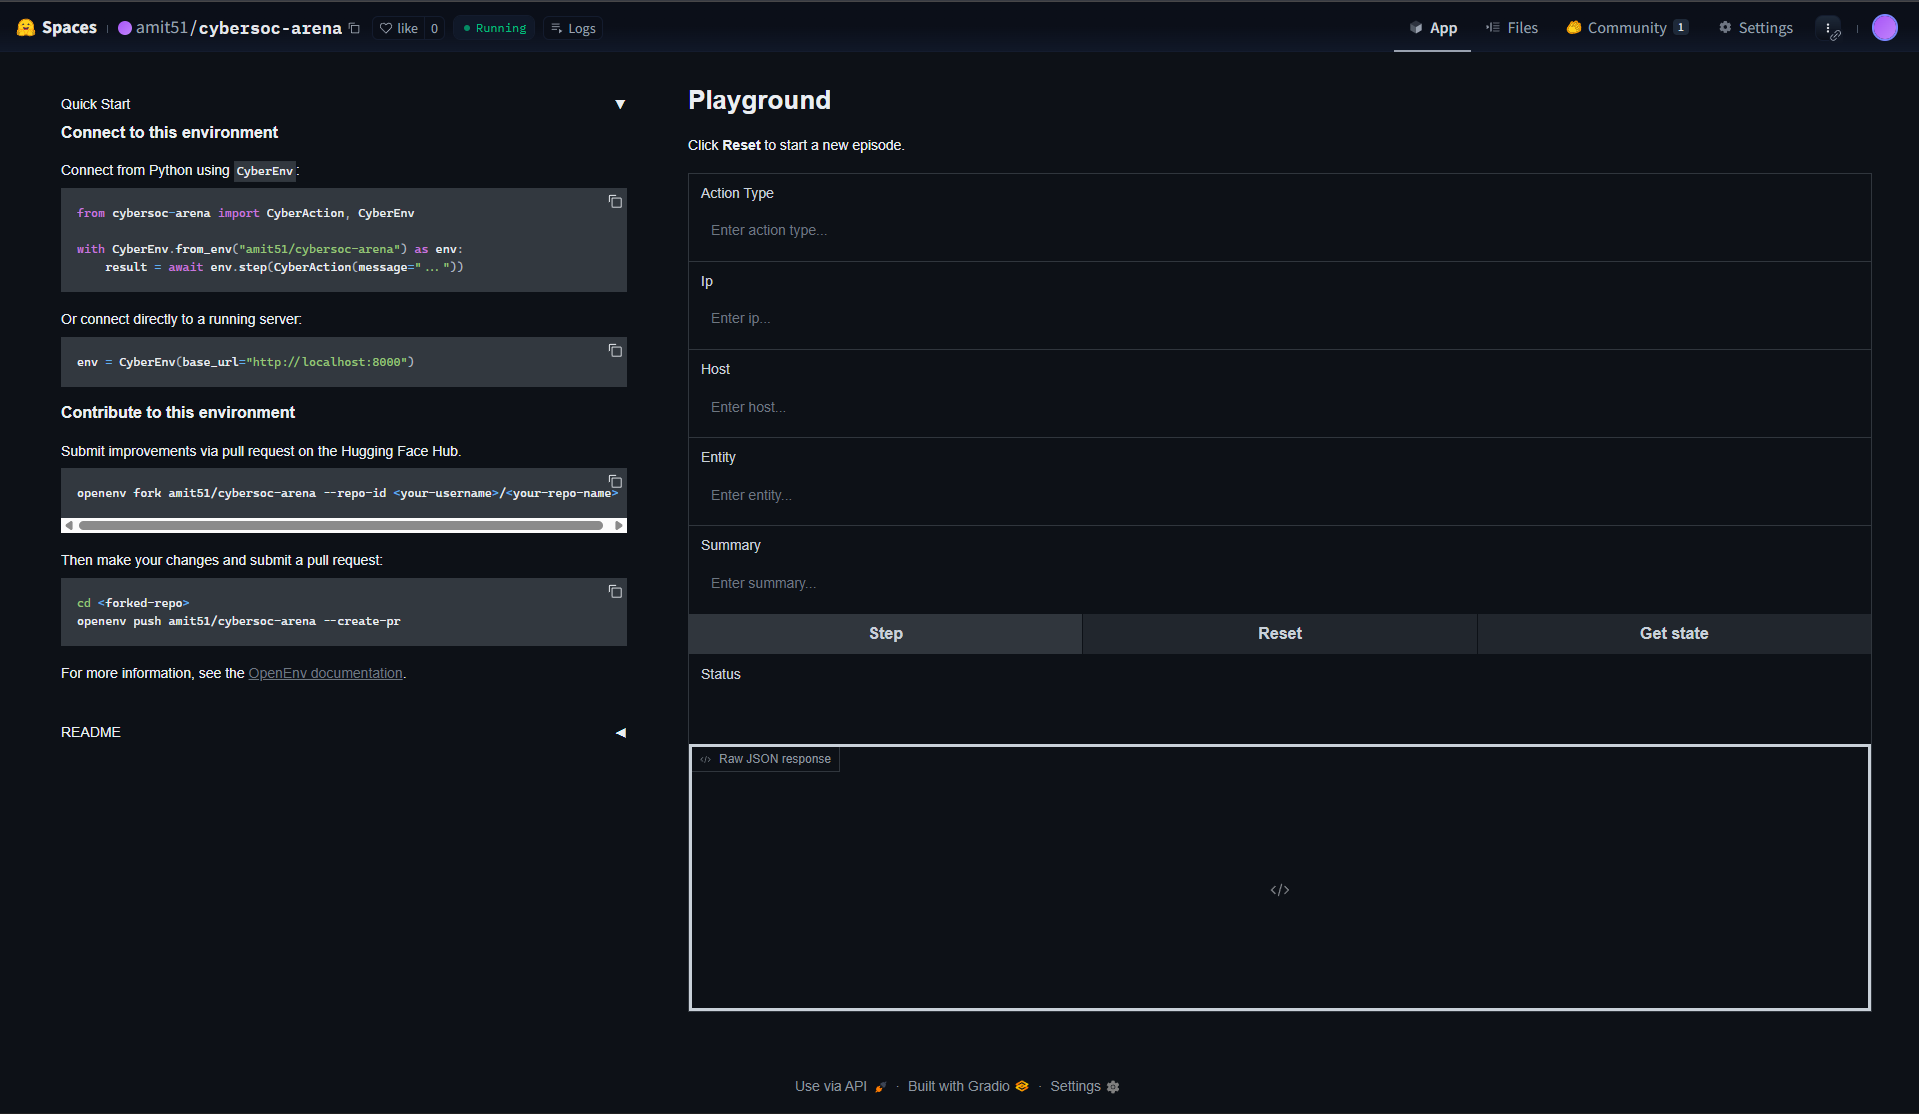
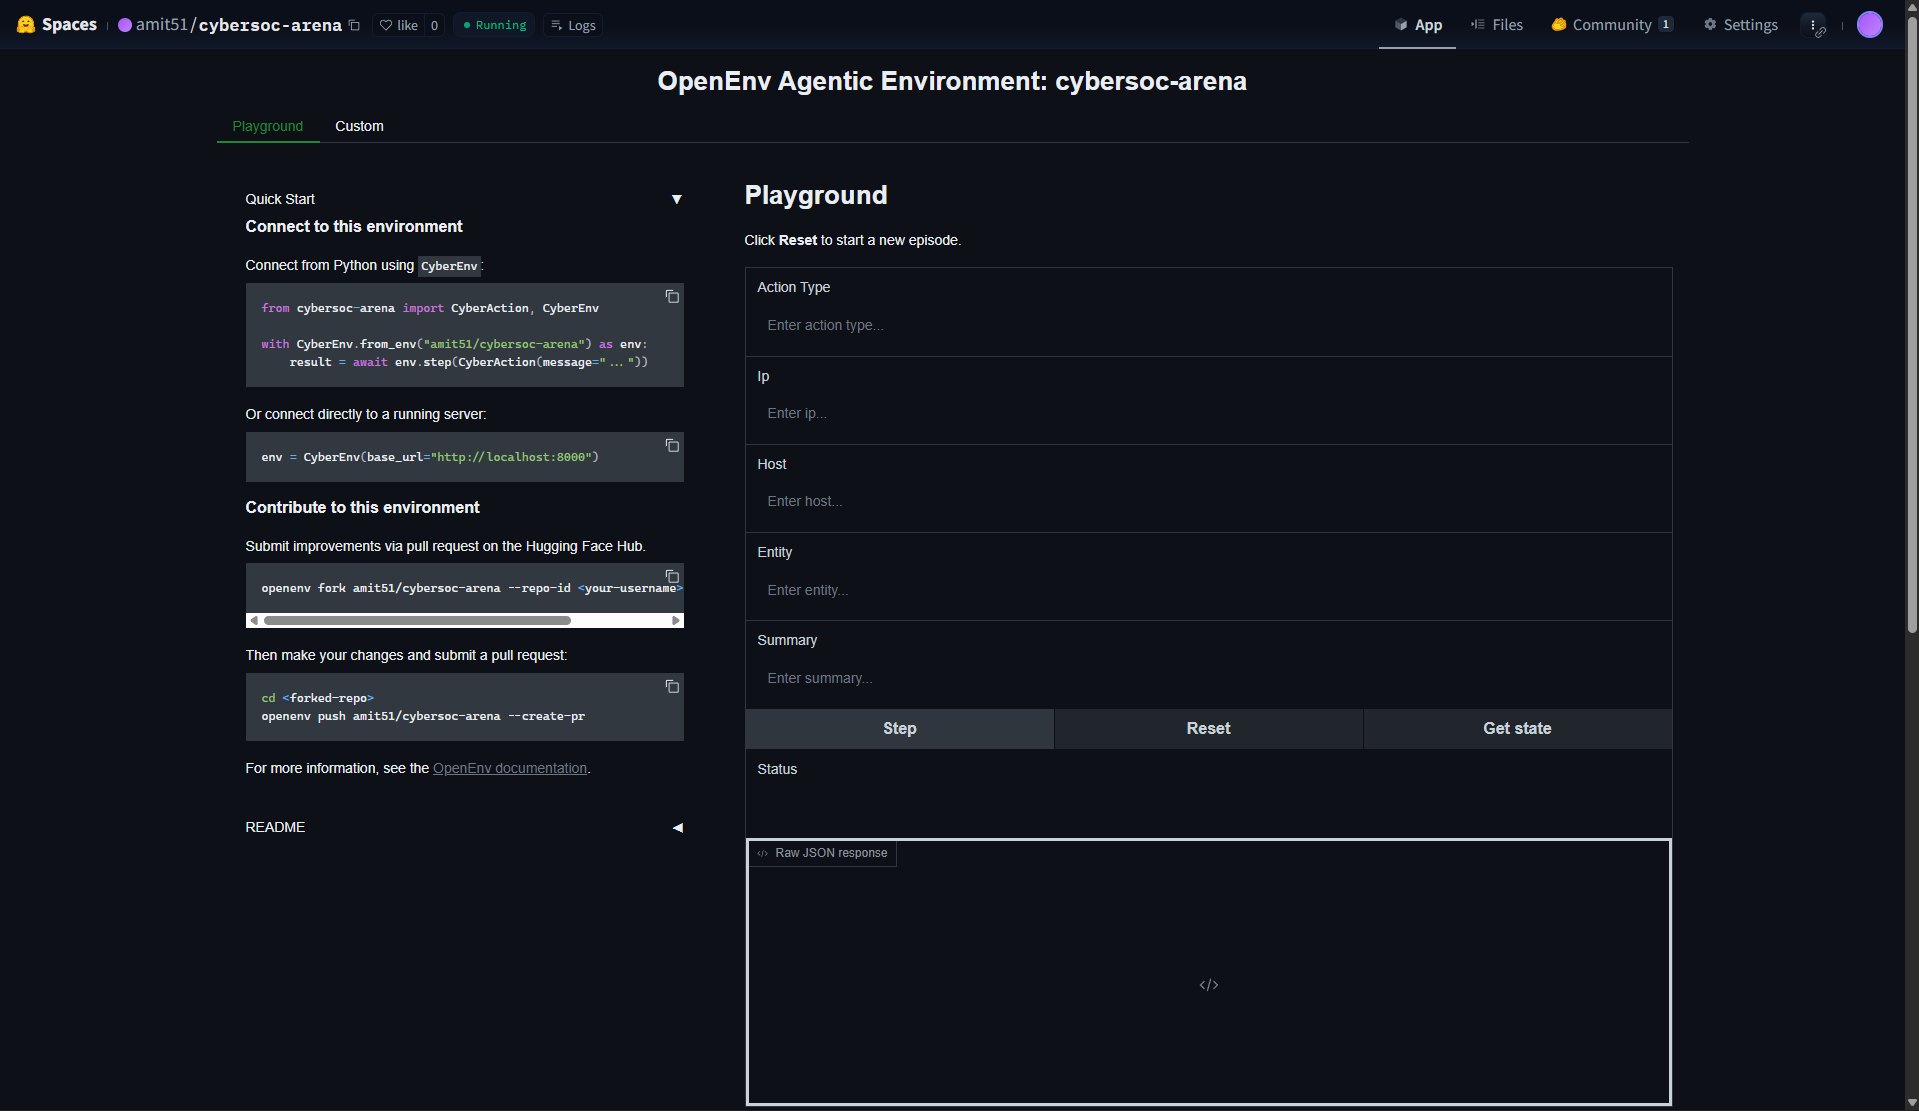
docs: update /web screenshot caption to match wizard layout; refresh web_ui_demo.png

diff --git a/README.md b/README.md
@@ -30,9 +30,12 @@ tags:
 ## Try the live env in 30 seconds
 
 ![CyberSOC Arena /web HumanAgent UI](assets/web_ui_demo.png)
-*The interactive Gradio UI at `/web`, mid-episode on the 20-step
-`long_horizon_apt` scenario. Alert + asset inventory on the left, evidence
-panel on the right, the 9 SOC tools as one-click action buttons.*
+*The interactive Gradio UI at `/web`. Wizard-style flow: Step 1 picks a
+scenario (one click resets the env), Step 2 shows the severity-coloured
+alert + asset inventory + step counter, Step 3 has a tool dropdown with a
+single smart Target field that auto-relabels per tool, Step 4 streams
+evidence and action history as you play. The same env drives the trained
+Qwen2.5-1.5B-Instruct adapter over the WebSocket session at `/ws`.*
 
 The Space is running at <https://amit51-cybersoc-arena.hf.space>. From any
 shell with `curl`:
